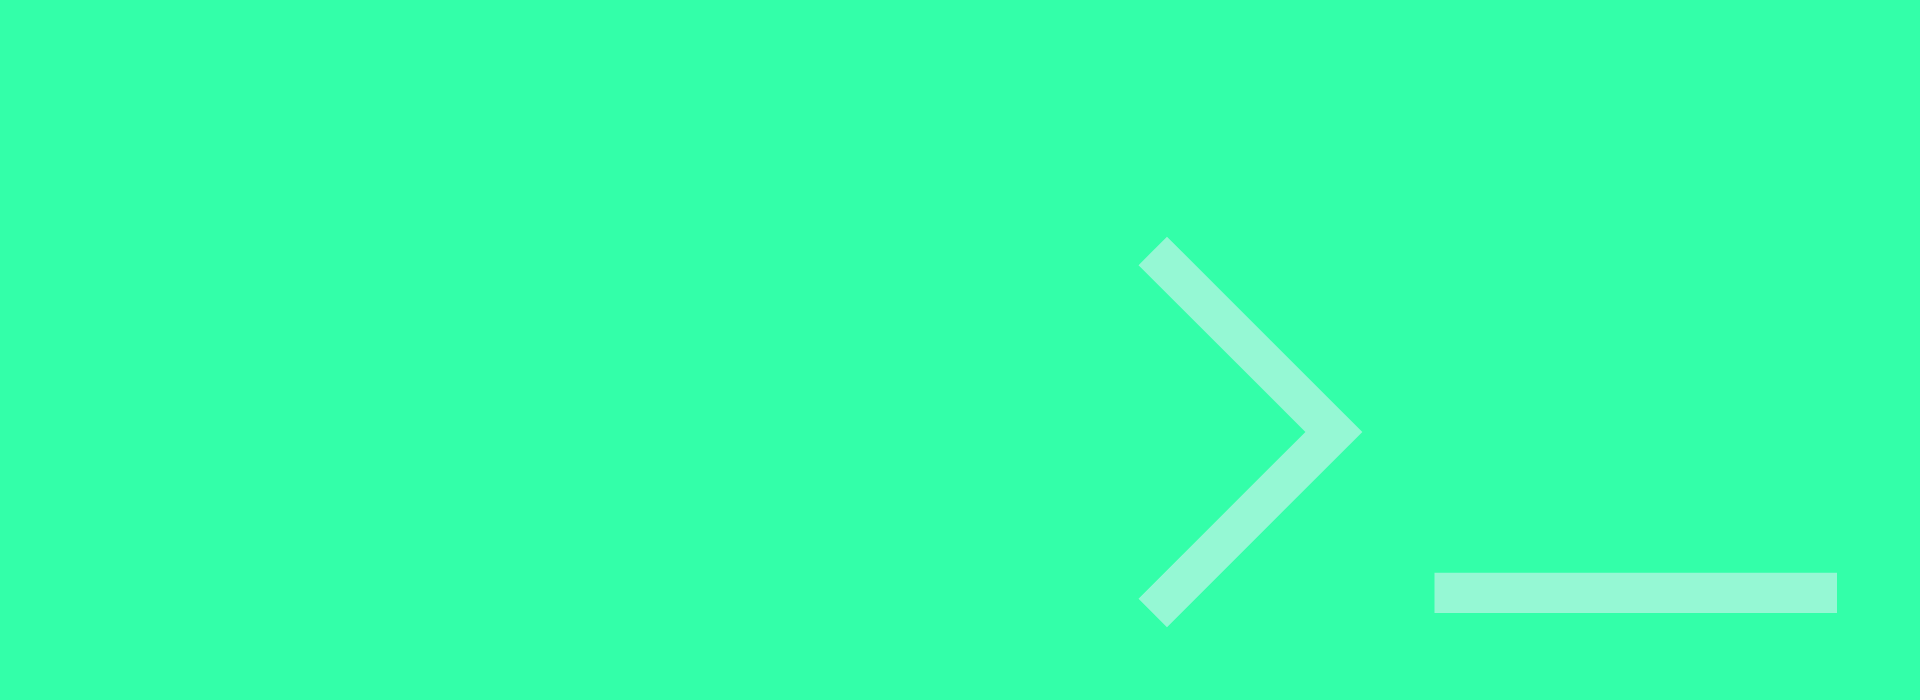
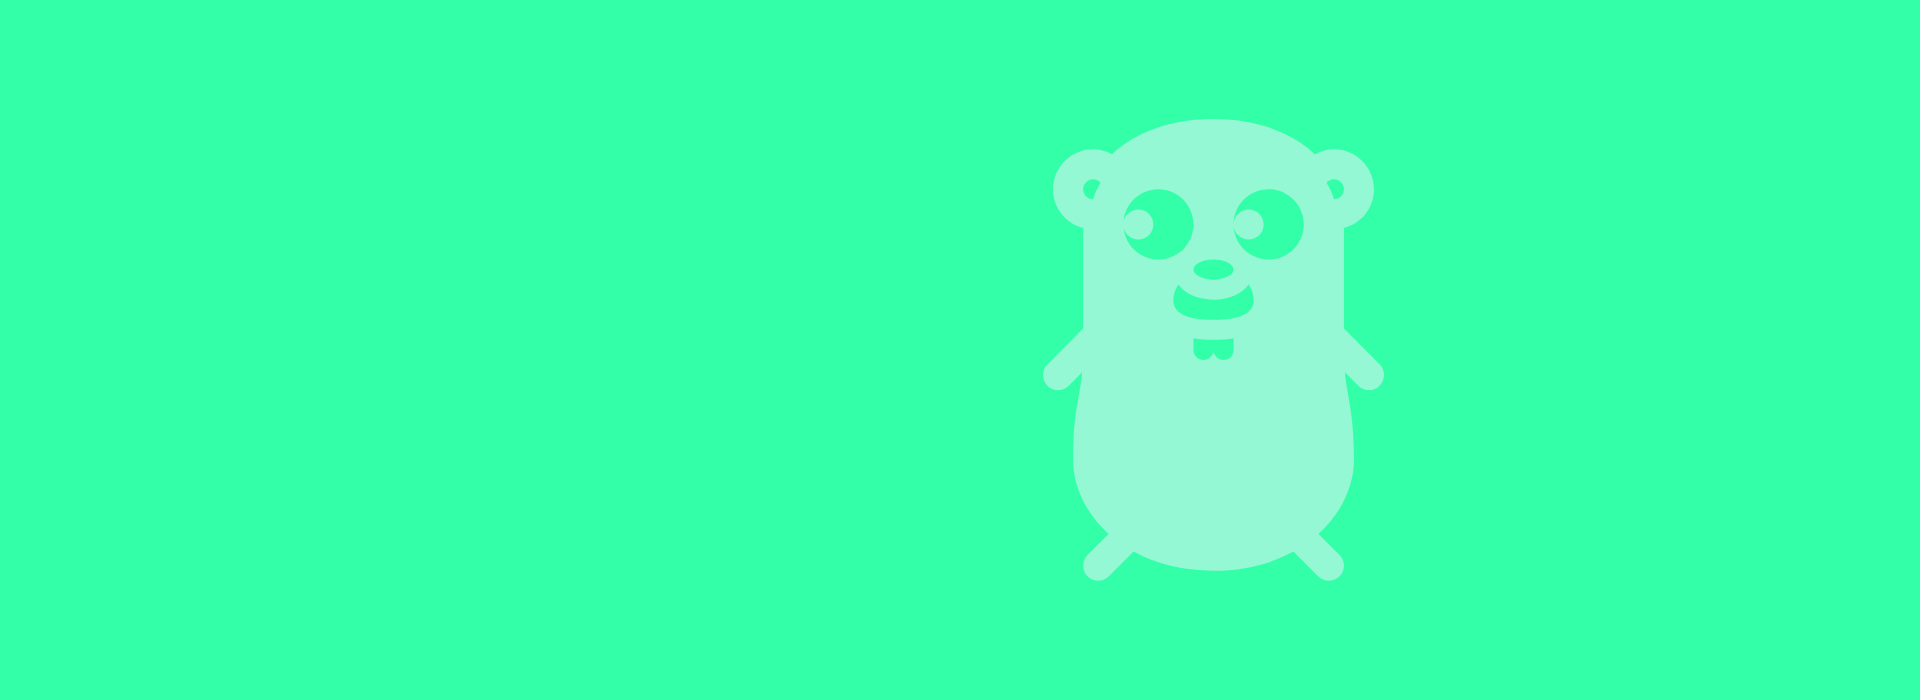
feat: added gopher

Changed region(s): [[0.5312, 0.15, 0.7188, 0.9], [0.75, 0.81, 0.9688, 0.9]]

diff --git a/index.html b/index.html
@@ -7,7 +7,7 @@
     <link rel="icon" type="image/png" href="./image/profile-rounded.png">
     <meta property="og:type" content="profile">
     <meta property="og:title" content="Lenar Gasimov">
-    <meta property="og:description" content="I'm Lenar. I'm a go developer.
+    <meta property="og:description" content="I'm Lenar. I'm a Trainee Golang developer.
     I specialize in full stack web development and writing readable code.">
     <meta property="og:url" content="https://lenargasimov.dev">
     <meta property="og:image" content="https://github.com/lenargasimov.png">
@@ -47,8 +47,8 @@
 <div class="flex-container-intro">
   <div class="flex-item-left-intro">
     <div class="intro">
-      <h1>Lenar Gasimov</h1>
-      <p class="intro-description">Trainee Golang developer.</p>
+      <h1>I'm a Golang Developer based in Naberezhnye Chelny</h1>
+      <p class="intro-description">I specialize in full stack web development and writing readable code.</p>
       <button class="button"><a href="contact.html">Contact me/></a></button>
       <div class="social-links">
           <a href="https://github.com/lenargasimov" target="_blank">GitHub</a>
@@ -66,15 +66,14 @@
 <div id="about" class="flex-container">
   <div class="flex-item-left">
     <h2>About me</h2>
-    <p class="about-description">&lt;p&gt;<br>I believe that I can be a good team player with the ability to work under
-        minimum guidance especially when carrying out challenging assignments.<br>&lt;/p&gt;
+    <p class="about-description">&lt;p&gt;<br>I believe that I can be a good team player with the ability to work under minimum
+        guidance especially when carrying out challenging assignments.<br>&lt;/p&gt;
     </p>
   </div>
 
   <div class="flex-item-right">
       <hr class="hr">
-      <p class="skills-description">
-      I thrive on bringing ideas to life.</p>
+      <p class="skills-description">I thrive on bringing ideas to life.</p>
       <ul>
           <li>Practical knowledge of front-end technologies: HTML5, CSS3, Bootstrap</li>
           <li>Coding and scripting skills in Python</li>
@@ -95,9 +94,9 @@
   </div>
   <div class="flex-item-right-works">
       <hr class="hr">
-      <p class="skills-description">Feel free to check my GitHub repo for code. 
+      <p class="skills-description">Feel free to check my GitHub repo for code.
         You can also browse all the projects I've found interesting by
-        looking at what I've starred. Connect with me. Let's work together! Stay awesome!</p>
+        looking at what I've starred.</p>
   </div>
 </div>
 

diff --git a/css/style.css b/css/style.css
@@ -36,7 +36,7 @@ a {
 /* Navigation */
 .topnav {
   overflow: hidden;
-  padding: 20px 10px;
+  padding: 20px 10px 0;
 }
 
 .topnav a {
@@ -113,7 +113,7 @@ a {
 }
 
 h1 {
-  font-size: 120px;
+  font-size: 80px;
   line-height: 1.15em;
   letter-spacing: -1.5px;
 }
